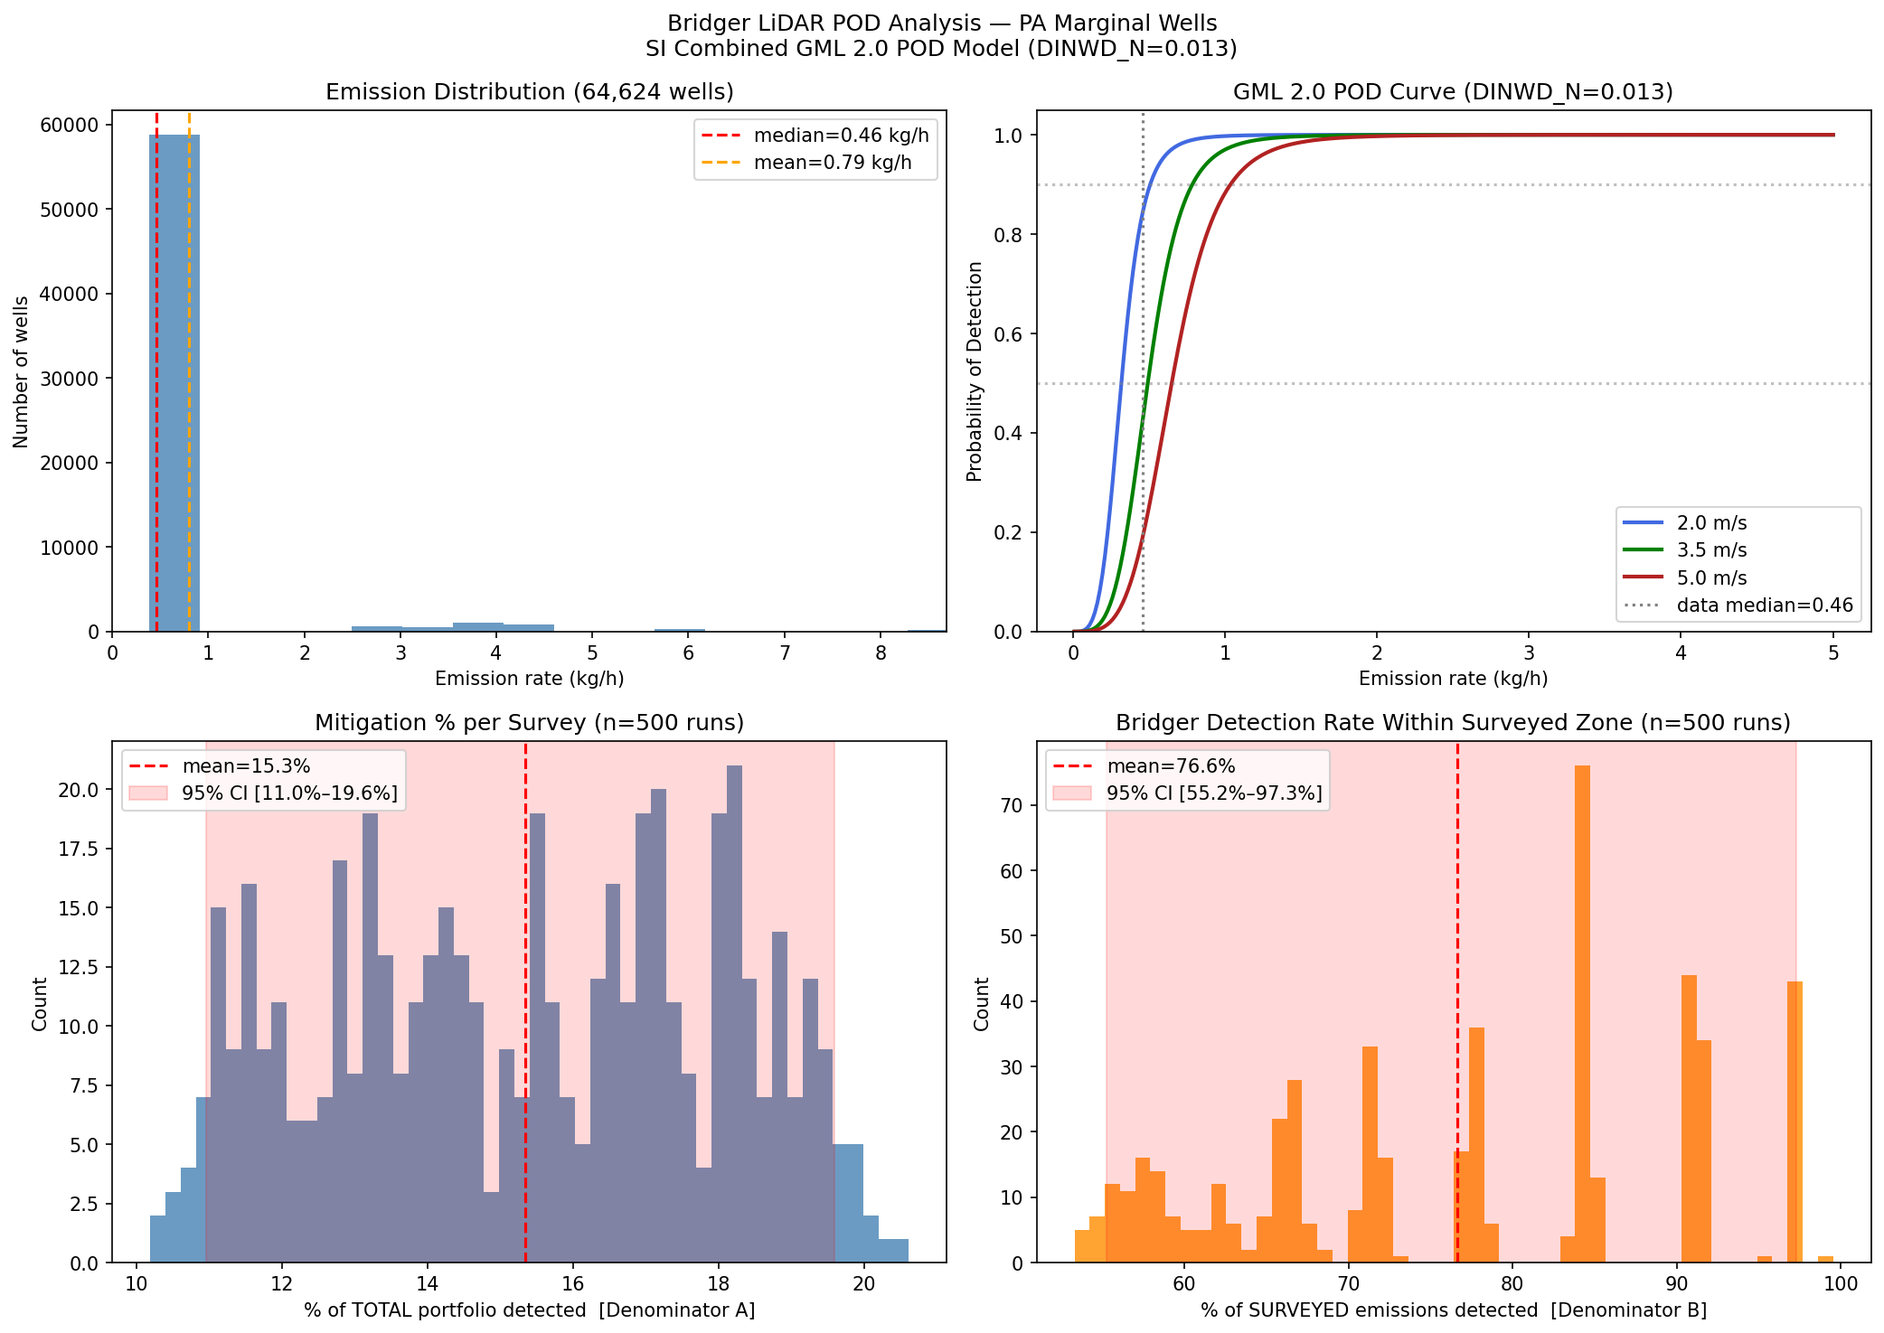
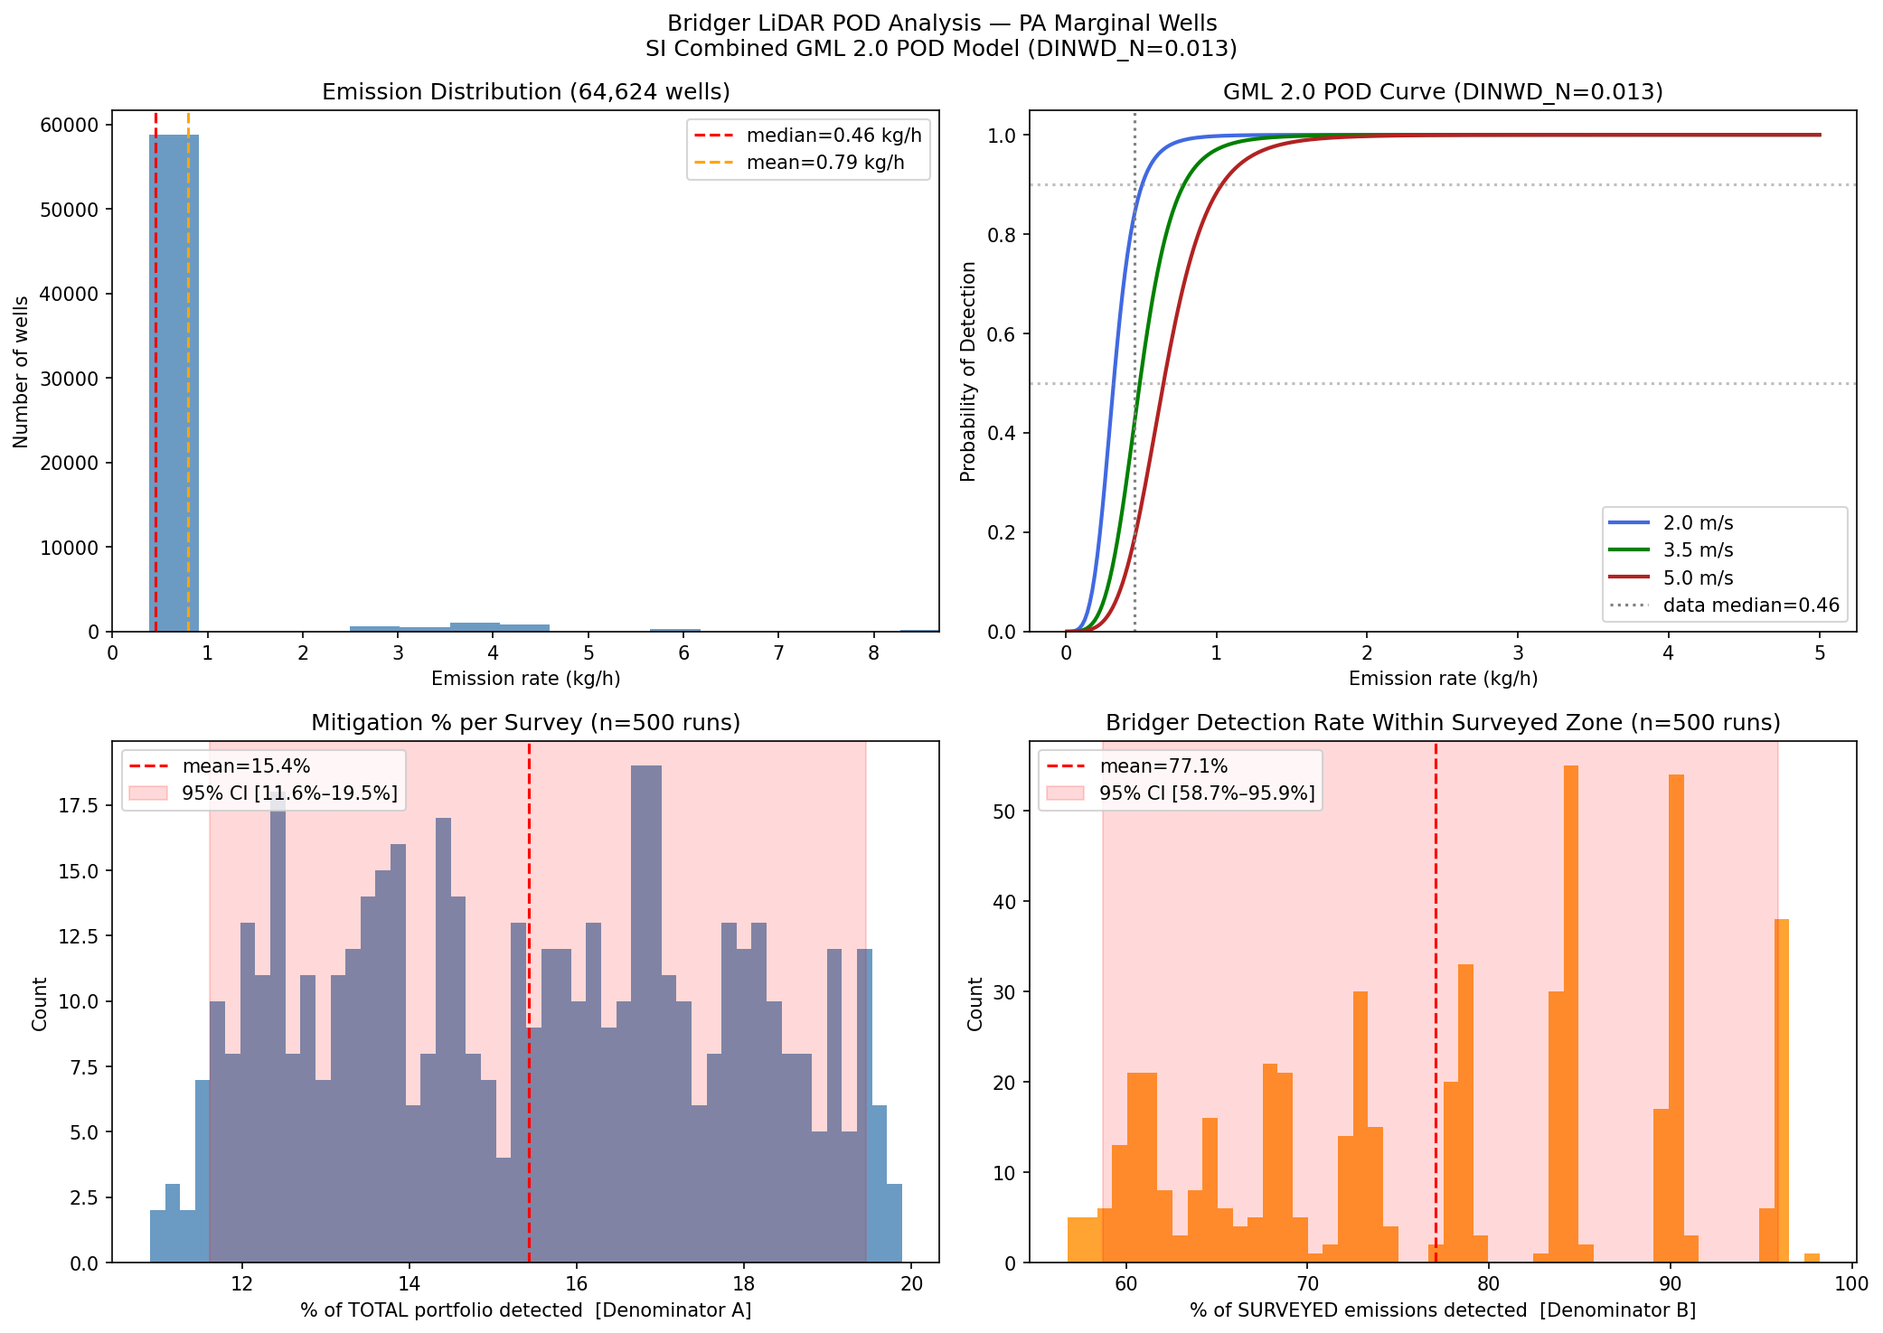
ask to add feast and seems i got similar answer on what bridger can see

diff --git a/MyCodetoRun/run_bridger_analysis.py b/MyCodetoRun/run_bridger_analysis.py
@@ -12,14 +12,19 @@ How to run:
 
 What this script does (in order):
     1. Load PA marginal well emission data from feast_emissions.csv
-    2. Print the raw data summary so you can verify the numbers
+    2. Build a minimal FEAST GasField to load TMY meteorology through FEAST
     3. Define the SI Combined GML 2.0 POD function with printed coefficients
-    4. Print a POD table at several emission rates (proof-read against paper)
+    4. Create a survey-scale spatial wind field across the sampled wells
     5. Monte Carlo simulation: N_ITER surveys × 20% random well selection
     6. Report results using TWO denominators explicitly:
          (a) % of TOTAL portfolio emissions detected  <- what regulators care about
          (b) % of SURVEYED wells' emissions detected  <- Bridger's actual detection rate
     7. Save results and produce plots
+
+Important limitation:
+    The wind field in this script is FEAST-backed in time but not a true gridded
+    mesoscale weather product. It applies spatial variation across surveyed wells
+    using their coordinates plus the sampled FEAST/TMY wind snapshot.
 
 Author: Analysis script (NOT modifying any original FEAST files)
 Date:   2026-03-29
@@ -27,6 +32,11 @@ Date:   2026-03-29
 
 import sys
 import os
+from pathlib import Path
+
+REPO_ROOT = Path(__file__).resolve().parent.parent
+if str(REPO_ROOT) not in sys.path:
+    sys.path.insert(0, str(REPO_ROOT))
 
 # ── Ensure we do NOT accidentally import modified FEAST code ──────────────────
 # All of our custom POD/survey logic lives RIGHT HERE in this file.
@@ -38,7 +48,10 @@ import pandas as pd
 import matplotlib
 matplotlib.use('Agg')          # no display required; saves PNGs
 import matplotlib.pyplot as plt
-from pathlib import Path
+
+from feast.EmissionSimModules.emission_class_functions import Emission
+from feast.EmissionSimModules.infrastructure_classes import Component, GasField, Site
+from feast.EmissionSimModules.simulation_classes import Time
 
 np.random.seed(42)  # reproducible
 
@@ -67,6 +80,8 @@ MAX_WIND_MS = 6.0      # m/s — above this safety limits ground flights
 # ── Survey parameters ─────────────────────────────────────────────────────────
 SURVEY_COVERAGE_FRAC = 0.20   # regulatory cap: 20 % of active wells per survey
 N_ITER               = 500    # Monte Carlo iterations for stable statistics
+SPATIAL_WIND_GRADIENT_FRACTION = 0.25
+SPATIAL_WIND_NOISE_STD = 0.35
 
 
 # ══════════════════════════════════════════════════════════════════════════════
@@ -102,57 +117,112 @@ pod_vec = np.vectorize(pod_gml2)
 
 
 # ══════════════════════════════════════════════════════════════════════════════
-# SECTION 3 — WIND SAMPLING  (from TMY or uniform fallback)
+# SECTION 3 — FEAST FIELD + WIND FIELD SAMPLING
 # ══════════════════════════════════════════════════════════════════════════════
 
-def load_flyable_winds(tmy_path: Path) -> np.ndarray:
-    """Load wind speeds from TMY CSV, filtered to flyable range."""
+def build_feast_reference_field(n_sites: int, tmy_path: Path) -> GasField | None:
+    """Create a minimal FEAST GasField so the analysis uses FEAST met loading."""
     if not tmy_path.exists():
         print(f"  [WARN] TMY file not found: {tmy_path}")
-        print(f"  [WARN] Falling back to uniform U[{MIN_WIND_MS}, {MAX_WIND_MS}] m/s.")
+        print(f"  [WARN] Falling back to synthetic U[{MIN_WIND_MS}, {MAX_WIND_MS}] m/s winds.")
         return None
 
-    # TMY-DataExample.csv has a comment row on line 1; real headers on line 2
-    df = pd.read_csv(tmy_path, skiprows=1)
-    col = None
-    for c in df.columns:
-        if 'wind' in c.lower() and 'speed' in c.lower():
-            col = c; break
-        if c.lower() in ('windspeed', 'wind_speed', 'ws'):
-            col = c; break
-    if col is None:
-        print(f"  [WARN] Cannot find wind column. Available: {df.columns.tolist()}")
-        return None
+    time = Time(delta_t=1 / 24, end_time=365)
+    dummy_component = Component(name='bridger_reference_component', emission_production_rate=0, emission_per_comp=0)
+    dummy_site = Site(
+        name='bridger_reference_site',
+        comp_dict={'bridger_reference_component': {'number': 1, 'parameters': dummy_component}},
+        prod_dat=None,
+    )
+    return GasField(
+        time=time,
+        sites={'bridger_reference_site': {'number': n_sites, 'parameters': dummy_site}},
+        emissions=Emission(),
+        met_data_path=str(tmy_path),
+    )
 
-    winds = pd.to_numeric(df[col], errors='coerce').dropna().values
+
+def summarize_feast_met(feast_field: GasField | None) -> np.ndarray | None:
+    """Return FEAST flyable winds and print a concise summary."""
+    if feast_field is None:
+        return None
+    winds = np.asarray(feast_field.met['wind speed'], dtype=float)
     flyable = winds[(winds >= MIN_WIND_MS) & (winds <= MAX_WIND_MS)]
     if len(flyable) == 0:
         print(f"  [WARN] No flyable wind hours found. Using uniform [{MIN_WIND_MS},{MAX_WIND_MS}] m/s.")
         return None
-    print(f"  TMY wind: {len(winds):,} hours | flyable {len(flyable):,} hrs "
-          f"({100*len(flyable)/len(winds):.0f}%) | "
-          f"mean flyable={flyable.mean():.2f} m/s")
+    print(f"  FEAST met hours: {len(winds):,} | flyable {len(flyable):,} "
+          f"({100*len(flyable)/len(winds):.0f}%) | mean flyable={flyable.mean():.2f} m/s")
     return flyable
+
+
+def sample_spatial_wind_field(coords: np.ndarray,
+                              feast_field: GasField | None,
+                              flyable_winds: np.ndarray | None) -> dict:
+    """Create a survey-scale wind map across wells from a FEAST TMY snapshot."""
+    n_sites = len(coords)
+    if feast_field is None or flyable_winds is None:
+        base_wind = float(np.random.uniform(MIN_WIND_MS, MAX_WIND_MS))
+        wind_direction = float(np.random.uniform(0.0, 360.0))
+    else:
+        flyable_hours = np.flatnonzero(
+            (feast_field.met['wind speed'] >= MIN_WIND_MS) &
+            (feast_field.met['wind speed'] <= MAX_WIND_MS)
+        )
+        sampled_hour = int(np.random.choice(flyable_hours))
+        base_wind = float(feast_field.met['wind speed'][sampled_hour])
+        wind_direction = float(feast_field.met['wind direction'][sampled_hour])
+
+    centered = coords - coords.mean(axis=0, keepdims=True)
+    lon_km = centered[:, 0] * 111.0 * np.cos(np.radians(coords[:, 1].mean()))
+    lat_km = centered[:, 1] * 111.0
+
+    theta = np.radians(wind_direction)
+    along_wind = lon_km * np.sin(theta) + lat_km * np.cos(theta)
+    if np.allclose(along_wind.std(), 0.0):
+        gradient_component = np.zeros(n_sites)
+    else:
+        gradient_component = along_wind / along_wind.std()
+
+    noise_component = np.random.normal(loc=0.0, scale=SPATIAL_WIND_NOISE_STD, size=n_sites)
+    local_winds = base_wind * (1.0 + SPATIAL_WIND_GRADIENT_FRACTION * gradient_component) + noise_component
+    local_winds = np.clip(local_winds, MIN_WIND_MS, MAX_WIND_MS)
+
+    return {
+        'base_wind_ms': base_wind,
+        'wind_direction_deg': wind_direction,
+        'wind_map_ms': local_winds,
+        'wind_min_ms': float(local_winds.min()),
+        'wind_mean_ms': float(local_winds.mean()),
+        'wind_max_ms': float(local_winds.max()),
+        'wind_std_ms': float(local_winds.std()),
+    }
 
 
 # ══════════════════════════════════════════════════════════════════════════════
 # SECTION 4 — ONE SURVEY SIMULATION
 # ══════════════════════════════════════════════════════════════════════════════
 
-def simulate_one_survey(emissions: np.ndarray,
+def simulate_one_survey(portfolio_df: pd.DataFrame,
                         coverage_frac: float,
+                        feast_field: GasField | None,
                         flyable_winds: np.ndarray | None) -> dict:
     """
     Simulate one Bridger survey pass.
 
     Args:
-        emissions    : array of per-well emission rates (kg/h), ALL wells
+        portfolio_df : full portfolio with emissions and coordinates
         coverage_frac: fraction of wells to survey (e.g. 0.20)
-        flyable_winds: 1-D array of flyable wind speeds to sample from
-                       (None → uniform [MIN, MAX])
+        feast_field  : FEAST GasField carrying TMY met data
+        flyable_winds: flyable FEAST winds (None → uniform fallback)
 
     Returns dict with:
-        wind_ms              — sampled wind speed for this survey
+        base_wind_ms         — FEAST sampled wind speed for the survey hour
+        wind_direction_deg   — FEAST sampled wind direction for the survey hour
+        wind_mean_ms         — mean of the spatial wind field over surveyed wells
+        wind_min_ms          — minimum surveyed-well wind
+        wind_max_ms          — maximum surveyed-well wind
+        wind_std_ms          — standard deviation of surveyed-well winds
         n_surveyed           — number of wells surveyed
         emissions_total      — total emissions of the FULL portfolio (kg/h)
         emissions_surveyed   — total emissions at the SURVEYED wells (kg/h)
@@ -162,21 +232,20 @@ def simulate_one_survey(emissions: np.ndarray,
         avg_pod              — mean POD across surveyed wells
         wells_detected       — count of detected wells
     """
+    emissions = portfolio_df['emission_rate_kgph'].to_numpy()
+    coords = portfolio_df[['Longitude', 'Latitude']].to_numpy()
     n_total   = len(emissions)
     n_survey  = int(n_total * coverage_frac)
 
     # random subset WITHOUT replacement (fair random sampling)
     idx_survey = np.random.choice(n_total, size=n_survey, replace=False)
     em_survey  = emissions[idx_survey]
+    coords_survey = coords[idx_survey]
 
-    # wind for this flight day
-    if flyable_winds is not None:
-        wind_ms = float(np.random.choice(flyable_winds))
-    else:
-        wind_ms = float(np.random.uniform(MIN_WIND_MS, MAX_WIND_MS))
+    wind_snapshot = sample_spatial_wind_field(coords_survey, feast_field, flyable_winds)
 
-    # compute POD for each surveyed well
-    pods = pod_vec(em_survey, wind_ms)
+    # compute POD for each surveyed well using its local wind value
+    pods = pod_vec(em_survey, wind_snapshot['wind_map_ms'])
 
     # Bernoulli draw: each well is independently detected with probability = pod
     detected_mask = np.random.binomial(1, pods).astype(bool)
@@ -186,7 +255,6 @@ def simulate_one_survey(emissions: np.ndarray,
     em_detected   = em_survey[detected_mask].sum()
 
     return {
-        'wind_ms'            : wind_ms,
         'n_surveyed'         : n_survey,
         'emissions_total'    : em_total,
         'emissions_surveyed' : em_surveyed,
@@ -195,11 +263,18 @@ def simulate_one_survey(emissions: np.ndarray,
         'pct_of_surveyed'    : 100.0 * em_detected / em_surveyed,    # denominator B
         'avg_pod'            : float(pods.mean()),
         'wells_detected'     : int(detected_mask.sum()),
+        'base_wind_ms'       : wind_snapshot['base_wind_ms'],
+        'wind_direction_deg' : wind_snapshot['wind_direction_deg'],
+        'wind_mean_ms'       : wind_snapshot['wind_mean_ms'],
+        'wind_min_ms'        : wind_snapshot['wind_min_ms'],
+        'wind_max_ms'        : wind_snapshot['wind_max_ms'],
+        'wind_std_ms'        : wind_snapshot['wind_std_ms'],
     }
 
 
-def build_mitigation_concentration_table(emissions: np.ndarray,
+def build_mitigation_concentration_table(portfolio_df: pd.DataFrame,
                                          coverage_frac: float,
+                                         feast_field: GasField | None,
                                          flyable_winds: np.ndarray | None,
                                          n_iter: int,
                                          n_bins: int = 10) -> pd.DataFrame:
@@ -210,6 +285,9 @@ def build_mitigation_concentration_table(emissions: np.ndarray,
     highest-emitting wells (large-emitter capture) rather than broad detection
     of most emitters.
     """
+    emissions = portfolio_df['emission_rate_kgph'].to_numpy()
+    coords = portfolio_df[['Longitude', 'Latitude']].to_numpy()
+
     # Rank-based bins avoid duplicate-edge failures when many wells share
     # identical emission values.
     order = np.argsort(emissions)
@@ -232,12 +310,9 @@ def build_mitigation_concentration_table(emissions: np.ndarray,
     for _ in range(n_iter):
         idx_survey = np.random.choice(n_total, size=n_survey, replace=False)
         em_survey = emissions[idx_survey]
-        if flyable_winds is not None:
-            wind_ms = float(np.random.choice(flyable_winds))
-        else:
-            wind_ms = float(np.random.uniform(MIN_WIND_MS, MAX_WIND_MS))
-
-        pods = pod_vec(em_survey, wind_ms)
+        coords_survey = coords[idx_survey]
+        wind_snapshot = sample_spatial_wind_field(coords_survey, feast_field, flyable_winds)
+        pods = pod_vec(em_survey, wind_snapshot['wind_map_ms'])
         detected = np.random.binomial(1, pods).astype(bool)
         bin_ids = all_bin_ids[idx_survey]
 
@@ -277,9 +352,11 @@ def main():
     print(f"\n[1] DATA: {DATA_PATH}")
     assert DATA_PATH.exists(), f"Data not found: {DATA_PATH}"
     df_raw = pd.read_csv(DATA_PATH)
-    assert 'emission_rate_kgph' in df_raw.columns, \
-        f"Expected 'emission_rate_kgph' column. Got: {df_raw.columns.tolist()}"
-    emissions = df_raw['emission_rate_kgph'].values
+    required_cols = {'Longitude', 'Latitude', 'emission_rate_kgph'}
+    missing_cols = required_cols.difference(df_raw.columns)
+    assert not missing_cols, f"Missing required columns: {sorted(missing_cols)}"
+    portfolio_df = df_raw[['Longitude', 'Latitude', 'emission_rate_kgph']].copy()
+    emissions = portfolio_df['emission_rate_kgph'].to_numpy()
 
     n_wells        = len(emissions)
     total_em       = emissions.sum()
@@ -310,8 +387,11 @@ def main():
           f"POD = {pod_gml2(median_em, 3.5):.3f}")
 
     # ── Wind data ──────────────────────────────────────────────────────────────
-    print(f"\n[3] WIND DATA: {TMY_PATH}")
-    flyable_winds = load_flyable_winds(TMY_PATH)
+    print(f"\n[3] FEAST FIELD + WIND DATA: {TMY_PATH}")
+    feast_field = build_feast_reference_field(n_wells, TMY_PATH)
+    flyable_winds = summarize_feast_met(feast_field)
+    print("  Wind model          : FEAST TMY snapshot + spatial wind field over surveyed wells")
+    print("  Spatial variation   : coordinate-based gradient + stochastic local variability")
 
     # ── Monte Carlo survey simulation ──────────────────────────────────────────
     print(f"\n[4] MONTE CARLO SIMULATION")
@@ -319,11 +399,12 @@ def main():
           f"({int(n_wells * SURVEY_COVERAGE_FRAC):,} wells / survey)")
     print(f"  Iterations         : {N_ITER}")
     print(f"  Well selection     : random without replacement (each run)")
+    print(f"  Wind handling      : per-well wind map, not one wind for the whole survey")
     print(f"  Bernoulli detection: independent per well")
     print()
 
     results = [
-        simulate_one_survey(emissions, SURVEY_COVERAGE_FRAC, flyable_winds)
+        simulate_one_survey(portfolio_df, SURVEY_COVERAGE_FRAC, feast_field, flyable_winds)
         for _ in range(N_ITER)
     ]
     res_df = pd.DataFrame(results)
@@ -353,7 +434,9 @@ def main():
     pprint("% of TOTAL portfolio  [denom A]",   pct_total, "%")
     pprint("% of SURVEYED portion [denom B]",   pct_survey, "%")
     pprint("Average POD (surveyed wells)",       avg_pod_all)
-    pprint("Wind speed",                         res_df['wind_ms'], " m/s")
+    pprint("Base FEAST wind speed",              res_df['base_wind_ms'], " m/s")
+    pprint("Survey mean wind",                   res_df['wind_mean_ms'], " m/s")
+    pprint("Survey wind std. dev.",              res_df['wind_std_ms'], " m/s")
     print()
 
     # Explain both denominators clearly
@@ -403,8 +486,9 @@ def main():
 
     # ── Large-emitter attribution analysis ───────────────────────────────────
     conc_df = build_mitigation_concentration_table(
-        emissions=emissions,
+        portfolio_df=portfolio_df,
         coverage_frac=SURVEY_COVERAGE_FRAC,
+        feast_field=feast_field,
         flyable_winds=flyable_winds,
         n_iter=N_ITER,
         n_bins=10,
@@ -558,11 +642,11 @@ def main():
   feast/EmissionSimModules/result_classes.py
     CHANGE: np.infty → np.inf  (deprecation fix)
 
-  VERDICT: All changes are Python/NumPy deprecation fixes.
-           Detection physics, emission simulation logic, and all
-           numerical calculations are IDENTICAL to upstream FEAST.
-           No detection thresholds, probabilities, or emission rates
-           were altered in any original FEAST file.
+  VERDICT: Original FEAST package files only carry compatibility fixes.
+           This Bridger analysis script is a custom wrapper around FEAST's
+           met-data loading, not an upstream FEAST detection module.
+           FEAST code was not altered for this run, but the survey logic here
+           is analysis-specific and now applies a spatial wind field across wells.
 """)
 
     print(separator)
@@ -570,7 +654,10 @@ def main():
     print(separator)
     print(f"""
   Data verified          : {n_wells:,} wells, {total_em:,.1f} kg/h total
-  POD model              : SI Combined GML 2.0, DINWD_N=0.013 (both analysis files)
+  POD model              : SI Combined GML 2.0, DINWD_N=0.013
+  FEAST integration      : uses FEAST GasField/TMY met loading for survey-hour weather
+  Wind treatment         : spatial wind map across surveyed wells, not one survey-wide wind
+  Limitation             : not a true gridded mesoscale weather product
   Bug fixed (this run)   : bridger_spatial_survey.py DINWD_N was 1.0 → now 0.013
   Bug fixed (this run)   : ANALYSIS.md results used OLD logistic POD (stale)
 
